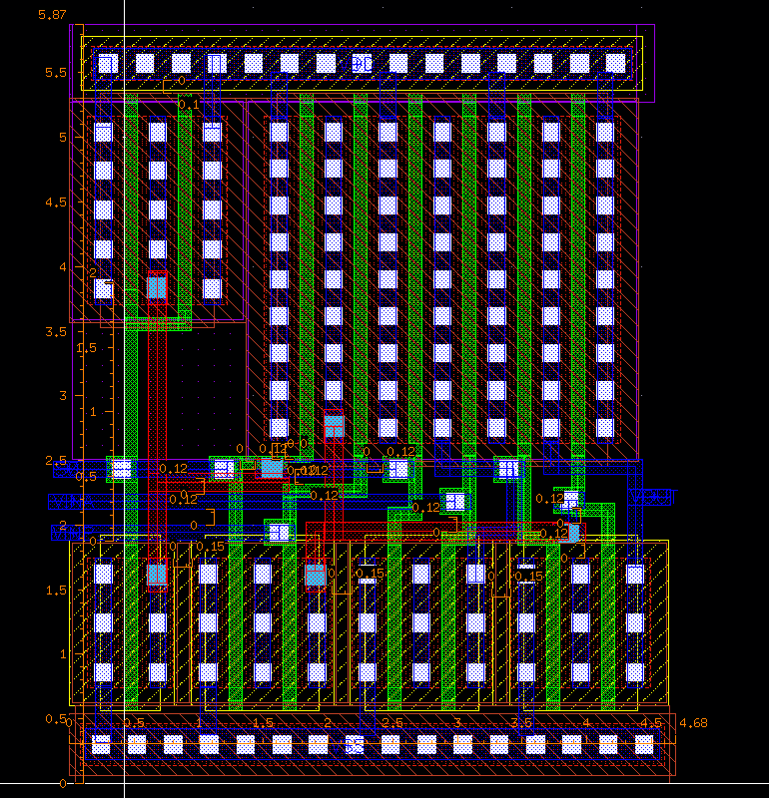
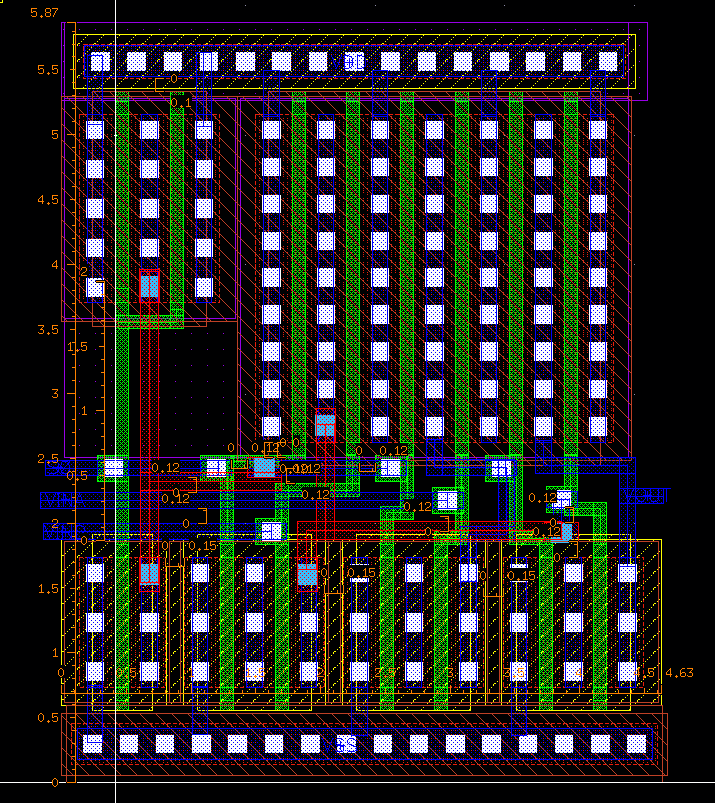
Add 2:1 MUX section to README

diff --git a/README.md b/README.md
@@ -280,6 +280,34 @@ Size : 2.2um x 9.51um
 
 ### 2:1 MUX
 
+<h3 align="center">2:1 MUX 회로 구성</h3>
+
+<p align="center">
+  <img src="img/21MUX_LOG_SCH.png" width="60%">
+</p>
+
+<h3 align="center">Symbol &amp; Test Bench</h3>
+
+<p align="center">
+  <img src="img/21MUX_LOG_TB.png" width="90%">
+</p>
+
+<h3 align="center">Simulation</h3>
+
+<p align="center">
+  <img src="img/21MUX_LOG_SIM.png" width="90%">
+</p>
+
+<h3 align="center">Layout</h3>
+
+<p align="center">
+  <img src="img/21MUX_LOG_LAY.png" width="45%">
+</p>
+
+<p align="center">
+Size : 4.63um x 5.87um
+</p>
+
 ### 4:1 MUX
 
 ### 8:1 MUX
